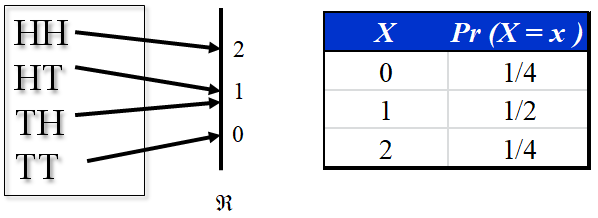
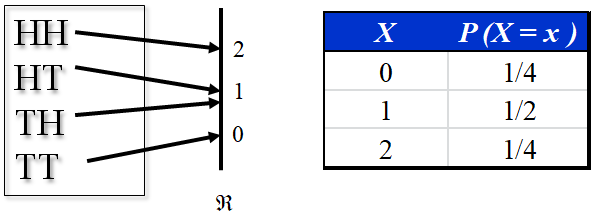
aula 07

Changed region(s): [[0.7525, 0.0826, 0.9933, 0.2202]]

diff --git a/slides/Aula07.html b/slides/Aula07.html
@@ -36,16 +36,18 @@ class: middle, center, inverse
 
 Na prática, os experimentos não são precisamente repetíveis, mesmo sob condições supostamente idênticas.
 
-&lt;img src="https://raw.githubusercontent.com/arpanosso/estatinfo/master/slides/img/exp.png" width="80%" style="display: block; margin: auto;" /&gt;
+Um **experimento aleatório** pode ser repetido inúmeras vezes e nas mesmas condições e, mesmo assim, apresenta resultados diferentes
+
+&lt;img src="https://raw.githubusercontent.com/arpanosso/estatinfo/master/slides/img/exp.png" width="70%" style="display: block; margin: auto;" /&gt;
 ---
 
 **Fenômeno aleatório:** É a situação ou acontecimento cujos resultados não podem ser previstos com certeza, pois envolve a eventualidade (**experimento aleatório**). Apesar do experimento ter sido realizado em condições supostamente controladas, existem fatores afetando os resultados, mas não se conhece ou não se sabe como controlá-los.
 
 .pull-left[
-Germinação de sementes
+Germinação de sementes de milho
 &lt;img src="https://images.pexels.com/photos/1459331/pexels-photo-1459331.jpeg?cs=srgb&amp;dl=pexels-livier-garcia-1459331.jpg&amp;fm=jpg" width="60%" style="display: block; margin: auto auto auto 0;" /&gt;
 
-TCH
+Produção de cana-de-açúcar (TCH)
 &lt;img src="https://images.pexels.com/photos/7457175/pexels-photo-7457175.jpeg?cs=srgb&amp;dl=pexels-kindel-media-7457175.jpg&amp;fm=jpg" width="60%" style="display: block; margin: auto auto auto 0;" /&gt;
 ]
 
@@ -57,22 +59,22 @@ Ganho de peso bovino
 ---
 
 
-**Espaço amostral `\((\mho\)` ou `\(S)\)`**: é o conjunto de todos os resultados possíveis de um certo fenômeno aleatório, é o conjunto de todos os elementos que possuem a característica em estudo representada pela letra ômega `\(\mho\)` ou pelo `\(S\)`. 
+**Espaço amostral ou Universo `\((\Omega\)` ou `\(S \text{ ou } U)\)`**: é o conjunto de todos os resultados possíveis de um certo fenômeno aleatório, é o conjunto de todos os elementos que possuem a característica em estudo representada pela letra Ômega `\(\Omega\)` ou pelo `\(S\)`. 
 
 Assim, no lançamento de um dado, o espaço amostral é:
 
-`$$\mho = \{1, 2, 3, 4, 5, 6\}$$`
+`$$S = \{1, 2, 3, 4, 5, 6\}$$`
 
 No lançamento de uma moeda, o espaço amostral é:
 
-`$$\mho = \{H, T\}$$`
+`$$S = \{H, T\}$$`
 Onde `\(H\)` representa Cara e `\(T\)` representa Coroa.
 
 No lançamento de duas moedas o espaço amostral é:
 
-`$$\mho = \{HH, HT,TH,TT\}$$`
+`$$S = \{HH, HT,TH,TT\}$$`
 
-**Evento simples ou evento elementar `\((e)\)`**: É cada resultado possível, ou seja, é o conjunto de resultados possíveis. Assim, para o lançamento de duas modeas,  temos: 
+**Evento simples, ponto amostral ou evento elementar `\((e)\)`**: É cada resultado possível, ou seja, é o conjunto de resultados possíveis. Assim, para o lançamento de duas modeas,  temos: 
 --
 &lt;img src="https://raw.githubusercontent.com/arpanosso/estatinfo/master/slides/img/duas_modeas.png" width="90%" style="display: block; margin: auto;" /&gt;
 
@@ -82,14 +84,27 @@ No lançamento de duas moedas o espaço amostral é:
 
 Assim, para o lançamento de um dado,  temos os eventos:
 
-a) sair um número par:  
-	R: `\(E_1 = \{2, 4, 6\}\)`
+a) sair um número par: 
 
-b) sair um número menor que 3:  
-	R: `\(E_2 = \{x| x&lt; 3 \} = \{1, 2\}\)` 
+--
+	
+R: `\(E_1 = \{2, 4, 6\}\)`
 
-c) sair um número menor que 3 ou primo:  
-	R: `\(E = \{x| x&lt; 3 \text{ ou } x = \text{ primo }\} = \{ 1,2,3,5\}\)`
+--
+
+b) sair um número menor que `\(3\)`:  
+
+--
+
+R: `\(E_2 = \{x| x&lt; 3 \} = \{1, 2\}\)` 
+
+--
+
+c) sair um número menor que `\(3\)` ou primo:
+
+--
+
+R: `\(E = \{x| x&lt; 3 \text{ ou } x = \text{ primo }\} = \{ 1,2,3,5\}\)`
 
 ---
 
@@ -102,9 +117,9 @@ A probabilidade é uma função `\(P(.)\)` que atribuí valores numéricos a um 
 A determinação das probabilidade de um evento depende da natureza do experimento e do espaço amostral associado.
 
 Supondo o lançamento de duas moedas "não viciadas" (honestas). Temos o espaço amostral:
-`\(\mho = \{H H, H T, T H, T T\}\)`.
+`\(\Omega = \{H H, H T, T H, T T\}\)`.
 
-A título de exemplificação, vamos definir uma variável **aleatória (v.a.)** como `\(X\)` que representa o **número de caras** no lançamento de duas moedas, ou no lançamenteo de uma moeda duas vezes, temos:
+A título de exemplificação, vamos definir uma variável **aleatória (v.a.)** como `\(X\)` que representa o **a contagem do número de caras** no lançamento de duas moedas, ou no lançamenteo de uma moeda duas vezes, temos:
 
 &lt;img src="https://raw.githubusercontent.com/arpanosso/estatinfo/master/slides/img/exp_prob.png" width="40%" style="display: block; margin: auto;" /&gt;
 
@@ -169,11 +184,11 @@ Chamamos esse tipo de **Evento Certo**.
 
 ###  Probabilidade de um Evento
 
-&gt;Assim, `\(P(E)\)` é a probabilidade de um evento E, ou seja, um número entre `\(0\)` e `\(1\)`, quanto mais próximo a 1, maior a chance de sua ocorrência. 
+&gt;Assim, `\(P(E)\)` é a probabilidade de um evento `\(E\)`, ou seja, é um número entre `\(0\)` e `\(1\)`, quanto mais próximo a `\(1\)`, maior a chance de sua ocorrência. 
 
 A proporção de vezes que um evento simples pode ocorrer pode ser determinada sem executar o experimento. 
 
-Portanto, se `\(\mho\)` consiste de `\(k\)` eventos simples `\(\{ e_1, e_2, \cdots, e_k\}\)` que são **igualmente prováveis**, a probabilidade de cada `\(e_i\)` é `\(\frac{1}{k}\)` se `\(E\)` consiste de `\(m\)` desses `\(k\)` elementos, então temos:
+Portanto, se `\(S\)` consiste de `\(k\)` eventos simples `\(\{ e_1, e_2, \cdots, e_k\}\)` que são **igualmente prováveis**, a probabilidade de cada `\(e_i\)` é `\(\frac{1}{k}\)` se `\(E\)` consiste de `\(m\)` desses `\(k\)` elementos, então temos:
 
 `$$P(E) = \frac{\text{nº de elementos em E}}{\text{nº de elementos em }\mho} = \frac{m}{k},$$`
 
@@ -181,7 +196,7 @@ Portanto `\(P(.)\)` é denominada probabilidade se, e somente se:
 
 `\(i) \;0 \le P(E) \le 1, \forall E \subset \mho\)`.
 
-`\(ii) \;P(\mho)= 1\)`, assim como, `\(P(\phi)=0\)`
+`\(ii) \;P(S)= 1\)`, assim como, `\(P(\phi)=0\)`
 
 `\(iii) P(E_1 \cup E_2 \cup \cdots \cup E_k) = P(\cup_{i=1}^kE_i)= \sum_{i=1}^k P(E_i)\)` com os eventos `\(E_i\)` **disjuntos (mutuamente excludentes)**.
 
@@ -208,7 +223,7 @@ Para qualquer evento `\(A\)`, podemos escrever:
 
 `\(A = A \cup \phi\)`, com `\(A\)` e `\(\phi\)` disjuntos, apresentado na propriedade (iii), temos:
 
-`\(P(A)=P(A)+P(\phi)\)`, como cnclusão imediata, temos:
+`\(P(A)=P(A)+P(\phi)\)`, como conclusão imediata, temos:
 
 `\(P(\phi)=0\)`, mas se `\(P(A)=0\)`, não é verdadeiro que `\(A=\phi\)`, existem situações que atribuiremos `\(P(E)=0\)` para um evento que pode ocorrer.
 
@@ -218,15 +233,15 @@ Para qualquer evento `\(A\)`, podemos escrever:
 
 Se `\(\bar{A}\)` for o evento complementar de `\(A\)`, então: 
 
-`$$P(A) = 1- P(A)$$`
+`$$P(A) = 1 - P(A)$$`
 
 **Demonstração**:
 
 Podemos escrever:
 
-`\(\mho = A \cup \bar{A}, \forall A\)`,
+`\(S = A \cup \bar{A}, \forall A\)`,
 
-Empregando a propriedade 2 e 3, temos:
+Empregando a propriedade `\(2\)` e `\(3\)`, temos:
 
 `\(P(U) = P(A)+P(\bar{A})\)`  
 
@@ -292,7 +307,7 @@ Se as condições dos experimentos não mudam, quando o número `\(n\)` de vezes
 
 `$$\lim_{ n \to \infty } f_n(E) = P(E)$$`
 
-Se jogarmos um dado, não viciado, muitas vezes e contarmos as vezes que cada lado sai, o valor da frequência relativa de cada tenderá a `\(\frac{1}{6} = 0,1667\)`.
+Se jogarmos um dado não viciado, muitas vezes e contarmos as vezes que cada lado sai, o valor da frequência relativa de cada tenderá a `\(\frac{1}{6} = 0,1667\)`.
 
 &lt;img src="https://images.pexels.com/photos/979722/pexels-photo-979722.jpeg?cs=srgb&amp;dl=pexels-jonathan-petersson-979722.jpg&amp;fm=jpg" width="15%" style="display: block; margin: auto;" /&gt;
 
